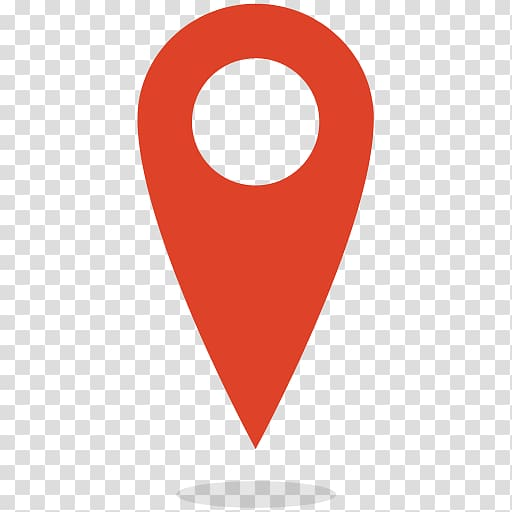
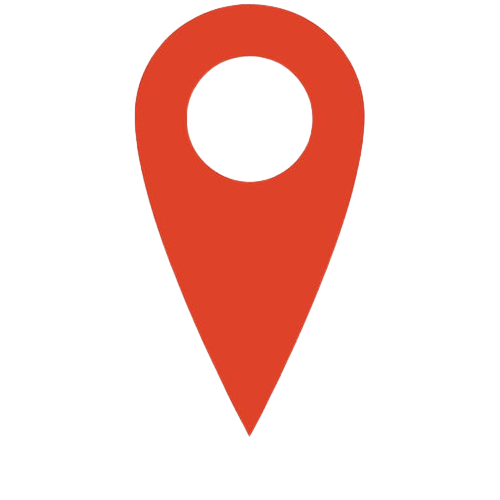
finished all basic functionalities including the display of client population on the map

diff --git a/frontend/src/pages/GeographicalData.jsx b/frontend/src/pages/GeographicalData.jsx
@@ -1,16 +1,24 @@
-import React, { useEffect, useState } from 'react'
+import React, { useEffect, useState, useMemo } from 'react'
 import { FaSearchLocation } from 'react-icons/fa'
 import { useDispatch, useSelector } from 'react-redux'
 import { getAllCountries } from '../features/country/countrySlice'
 import Spinner from '../components/Spinner'
 
 import 'mapbox-gl/dist/mapbox-gl.css'
-import Map from 'react-map-gl'
+import Map, { Marker, Popup, NavigationControl, FullscreenControl, ScaleControl, GeolocateControl } from 'react-map-gl'
+import markerImage from '../resources/mapMarker.png'
 
 function GeographicalData() {
 
     const dispatch = useDispatch()
     const { countries, isLoading, isError, message } = useSelector((state) => state.country)
+
+    const [viewState, setViewState] = React.useState({
+        longitude: -100,
+        latitude: 40,
+        zoom: 1.5
+    })
+    const [popupInfo, setPopupInfo] = useState(null)
 
     // Fetch all the countries and related details
     useEffect(() => {
@@ -21,6 +29,32 @@ function GeographicalData() {
         }
 
     }, [])
+
+    //Mark all countries on the map (MEMO)
+    const pins = useMemo(
+    () =>
+      countries.map((country, index) => (
+        <Marker
+          key={`marker-${index}`}
+          longitude={country.longitude}
+          latitude={country.latitude}
+          anchor="bottom"
+          onClick={e => {
+            // If we let the click event propagates to the map, it will immediately close the popup
+            // with `closeOnClick: true`
+            e.originalEvent.stopPropagation()
+            setPopupInfo(country)
+          }}
+        >
+            <img 
+                className='marker-image'
+                src={markerImage} 
+                style={{width: "50px", height: "45px", cursor: "pointer", }}
+            />
+        </Marker>
+      )),
+    [countries]
+  );
 
     if(isLoading){
         return <Spinner />
@@ -35,14 +69,37 @@ function GeographicalData() {
 
         <Map 
             mapboxAccessToken={process.env.REACT_APP_MAP_TOKEN}
-            initialViewState={{
-                longitude: -122.4,
-                latitude: 37.8,
-                zoom: 14
-            }}
+            {...viewState}
+            onMove={event => setViewState(event.viewState)}
             style={{width: "100%", height: "100vh"}}
-            mapStyle="mapbox://styles/mapbox/streets-v9"
-        />
+            mapStyle="mapbox://styles/mapbox/light-v10"
+        >
+            {/* Map control options */}
+            <GeolocateControl position="top-left" />
+            <FullscreenControl position="top-left" />
+            <NavigationControl position="top-left" />
+            <ScaleControl />
+
+            {/* Mark all countries on the map */}
+            {pins}
+
+            {/* Show the information related to each country when clicked */}
+            {
+                popupInfo && (
+                    <Popup
+                        anchor='top'
+                        longitude={Number(popupInfo.longitude)}
+                        latitude={Number(popupInfo.latitude)}
+                        onClose={() => setPopupInfo(null)}
+                    >
+                        <div className='info'>
+                            <h3 className='title'>{popupInfo.countryName}({popupInfo.countryISO})</h3>
+                            <p className='population'>Client population: {popupInfo.clientPopulation}</p>
+                        </div>
+                    </Popup>
+                )
+            }
+        </Map>
     </section>
   )
 }

diff --git a/frontend/src/components/Pin.jsx b/frontend/src/components/Pin.jsx
@@ -1,0 +1,21 @@
+import * as React from 'react';
+
+const ICON = `M20.2,15.7L20.2,15.7c1.1-1.6,1.8-3.6,1.8-5.7c0-5.6-4.5-10-10-10S2,4.5,2,10c0,2,0.6,3.9,1.6,5.4c0,0.1,0.1,0.2,0.2,0.3
+  c0,0,0.1,0.1,0.1,0.2c0.2,0.3,0.4,0.6,0.7,0.9c2.6,3.1,7.4,7.6,7.4,7.6s4.8-4.5,7.4-7.5c0.2-0.3,0.5-0.6,0.7-0.9
+  C20.1,15.8,20.2,15.8,20.2,15.7z`;
+
+const pinStyle = {
+  cursor: 'pointer',
+  fill: '#d00',
+  stroke: 'none'
+};
+
+function Pin({size = 20}) {
+  return (
+    <svg height={size} viewBox="0 0 24 24" style={pinStyle}>
+      <path d={ICON} />
+    </svg>
+  );
+}
+
+export default React.memo(Pin);

diff --git a/frontend/src/styles/index.css b/frontend/src/styles/index.css
@@ -742,6 +742,30 @@
   width: 100%;
 }
 
+.geographical-data .marker-image {
+  -webkit-transition: 0.2s all linear;
+  transition: 0.2s all linear;
+}
+
+.geographical-data .marker-image:hover {
+  opacity: 0.7;
+}
+
+.geographical-data .info {
+  padding: 1rem;
+}
+
+.geographical-data .info .title {
+  font-size: 2rem;
+  margin-bottom: 1rem;
+  color: #7cc0dd;
+}
+
+.geographical-data .info .population {
+  font-size: 1.7rem;
+  color: #6296ac;
+}
+
 * {
   margin: 0;
   padding: 0;

diff --git a/frontend/src/styles/pages/_geographicalData.scss b/frontend/src/styles/pages/_geographicalData.scss
@@ -2,4 +2,27 @@
     height: 100vh;
     width: 100%;
 
+    .marker-image{
+        transition: 0.2s all linear;
+
+        &:hover{
+            opacity: 0.7;
+        }   
+    }
+
+    .info{
+
+        padding: 1rem;
+
+        .title{
+            font-size: 2rem;
+            margin-bottom: 1rem;
+            color: $secondaryColor;
+        }
+
+        .population{
+            font-size: 1.7rem;
+            color: $primaryColor;
+        }
+    }
 }
